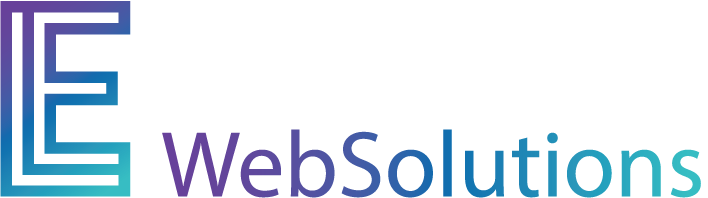
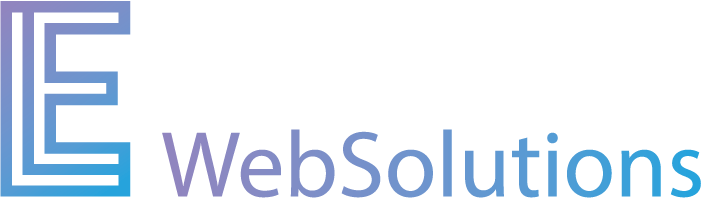
Updates
- Updated images with new colors
- Styled theme toggle
- Updated posts responsiveness
- Added sections to homepage

Changed region(s): [[0.2175, 0.6364, 0.9944, 1.0], [0.0, 0.0, 0.1864, 1.0], [0.7768, 0.6667, 0.8079, 0.7273]]

diff --git a/components/ThemeToggle.tsx b/components/ThemeToggle.tsx
@@ -19,34 +19,32 @@ export default function ThemeToggle() {
 
     return (
         <button
-            className="toggle-container"
+            className="toggle-container bg-gray-200 dark:bg-slate-500"
             style={{
                 ...container,
                 justifyContent: isDarkMode ? "flex-start" : "flex-end",
-                backgroundColor: isDarkMode ? "#333" : "#ddd",
             }}
             onClick={() => setTheme(isDarkMode ? "light" : "dark")}
         >
             <motion.div
-                className="toggle-handle"
+                className="toggle-handle bg-gray-100 dark:bg-slate-300"
                 style={{
-                    ...handle,
-                    backgroundColor: isDarkMode ? "#555" : "#888",
+                    ...handle
                 }}
                 layout
                 transition={{
                     type: "spring",
                     visualDuration: 0.2,
-                    bounce: 0.2,
+                    bounce: 0.4,
                 }}
             >
                 {isDarkMode ? (
-                    <svg xmlns="http://www.w3.org/2000/svg" id="Layer_1" data-name="Layer 1" viewBox="0 0 24 24" width="24" height="24">
-                        <path d="M15,24a12.021,12.021,0,0,1-8.914-3.966,11.9,11.9,0,0,1-3.02-9.309A12.122,12.122,0,0,1,13.085.152a13.061,13.061,0,0,1,5.031.205,2.5,2.5,0,0,1,1.108,4.226c-4.56,4.166-4.164,10.644.807,14.41a2.5,2.5,0,0,1-.7,4.32A13.894,13.894,0,0,1,15,24Z"/>
+                    <svg className="size-4/6 fill-gray-700" xmlns="http://www.w3.org/2000/svg" id="Layer_1" data-name="Layer 1" viewBox="0 0 23.99 24.01">
+                        <path d="M12.01,24.01c-3.4,0-6.64-1.44-8.91-3.97C.8,17.51-.3,14.12.07,10.73.69,5.37,4.77,1.06,10.09.16c1.67-.26,3.38-.19,5.03.2,1.34.34,2.14,1.71,1.8,3.04-.12.45-.36.86-.69,1.18-4.56,4.17-4.16,10.64.81,14.41,1.09.85,1.28,2.42.42,3.51-.29.37-.68.65-1.12.81-1.4.46-2.86.69-4.33.69Z"/>
                     </svg>
                 ) : (
-                    <svg xmlns="http://www.w3.org/2000/svg" id="Layer_1" data-name="Layer 1" viewBox="0 0 24 24" width="24" height="24">
-                        <path d="M12,7c-2.76,0-5,2.24-5,5s2.24,5,5,5,5-2.24,5-5-2.24-5-5-5Zm0,7c-1.1,0-2-.9-2-2s.9-2,2-2,2,.9,2,2-.9,2-2,2Zm4.95-6.95c-.59-.59-.59-1.54,0-2.12l1.41-1.41c.59-.59,1.54-.59,2.12,0,.59,.59,.59,1.54,0,2.12l-1.41,1.41c-.29,.29-.68,.44-1.06,.44s-.77-.15-1.06-.44ZM7.05,16.95c.59,.59,.59,1.54,0,2.12l-1.41,1.41c-.29,.29-.68,.44-1.06,.44s-.77-.15-1.06-.44c-.59-.59-.59-1.54,0-2.12l1.41-1.41c.59-.59,1.54-.59,2.12,0ZM3.51,5.64c-.59-.59-.59-1.54,0-2.12,.59-.59,1.54-.59,2.12,0l1.41,1.41c.59,.59,.59,1.54,0,2.12-.29,.29-.68,.44-1.06,.44s-.77-.15-1.06-.44l-1.41-1.41Zm16.97,12.73c.59,.59,.59,1.54,0,2.12-.29,.29-.68,.44-1.06,.44s-.77-.15-1.06-.44l-1.41-1.41c-.59-.59-.59-1.54,0-2.12,.59-.59,1.54-.59,2.12,0l1.41,1.41Zm3.51-6.36c0,.83-.67,1.5-1.5,1.5h-2c-.83,0-1.5-.67-1.5-1.5s.67-1.5,1.5-1.5h2c.83,0,1.5,.67,1.5,1.5ZM3.5,13.5H1.5c-.83,0-1.5-.67-1.5-1.5s.67-1.5,1.5-1.5H3.5c.83,0,1.5,.67,1.5,1.5s-.67,1.5-1.5,1.5ZM10.5,3.5V1.5c0-.83,.67-1.5,1.5-1.5s1.5,.67,1.5,1.5V3.5c0,.83-.67,1.5-1.5,1.5s-1.5-.67-1.5-1.5Zm3,17v2c0,.83-.67,1.5-1.5,1.5s-1.5-.67-1.5-1.5v-2c0-.83,.67-1.5,1.5-1.5s1.5,.67,1.5,1.5Z"/>
+                    <svg className="size-4/6 fill-gray-700" xmlns="http://www.w3.org/2000/svg" id="Layer_1" data-name="Layer 1" viewBox="0 0 23.99 24.01">
+                        <path d="M12.01,7.01c-2.76,0-5,2.24-5,5s2.24,5,5,5,5-2.24,5-5-2.24-5-5-5ZM12.01,14.01c-1.1,0-2-.9-2-2s.9-2,2-2,2,.9,2,2-.9,2-2,2ZM16.96,7.06c-.59-.59-.59-1.54,0-2.12l1.41-1.41c.59-.59,1.54-.59,2.12,0,.59.59.59,1.54,0,2.12l-1.41,1.41c-.29.29-.68.44-1.06.44s-.77-.15-1.06-.44ZM7.06,16.96c.59.59.59,1.54,0,2.12l-1.41,1.41c-.29.29-.68.44-1.06.44s-.77-.15-1.06-.44c-.59-.59-.59-1.54,0-2.12l1.41-1.41c.59-.59,1.54-.59,2.12,0ZM3.52,5.65c-.59-.59-.59-1.54,0-2.12.59-.59,1.54-.59,2.12,0l1.41,1.41c.59.59.59,1.54,0,2.12-.29.29-.68.44-1.06.44s-.77-.15-1.06-.44c0,0-1.41-1.41-1.41-1.41ZM20.48,18.38c.59.59.59,1.54,0,2.12-.29.29-.68.44-1.06.44s-.77-.15-1.06-.44l-1.41-1.41c-.59-.59-.59-1.54,0-2.12.59-.59,1.54-.59,2.12,0l1.41,1.41ZM23.99,12.02c0,.83-.67,1.5-1.5,1.5h-2c-.83,0-1.5-.67-1.5-1.5s.67-1.5,1.5-1.5h2c.83,0,1.5.67,1.5,1.5ZM3.51,13.51H1.51C.68,13.51,0,12.84,0,12.01s.67-1.5,1.5-1.5h2c.83,0,1.5.67,1.5,1.5s-.67,1.5-1.5,1.5ZM10.51,3.51V1.51C10.51.68,11.18,0,12.01,0s1.5.67,1.5,1.5v2c0,.83-.67,1.5-1.5,1.5s-1.5-.67-1.5-1.5ZM13.51,20.51v2c0,.83-.67,1.5-1.5,1.5s-1.5-.67-1.5-1.5v-2c0-.83.67-1.5,1.5-1.5s1.5.67,1.5,1.5Z"/>
                     </svg>
                 )}
 
@@ -59,8 +57,8 @@ export default function ThemeToggle() {
  * ==============   Styles   ================
  */
 const container = {
-    width: 50,
-    height: 30,
+    width: 52,
+    height: 34,
     borderRadius: 30,
     cursor: "pointer",
     display: "flex",
@@ -69,8 +67,8 @@ const container = {
 };
 
 const handle = {
-    width: 25,
-    height: 25,
+    width: 24,
+    height: 24,
     borderRadius: "50%",
     display: "flex",
     alignItems: "center",

diff --git a/app/page.tsx b/app/page.tsx
@@ -1,28 +1,50 @@
+import { div } from "motion/react-client";
 import Link from "next/link";
 
 export default function HomePage() {
     return (
-        <main>
-            <div className="container relative flex flex-col justify-center items-center py-8 min-h-screen">
-                <p className="sub-title mb-6 backdrop-blur-md">Available for Freelance projects</p>
-                <h1 className="bg-clip-text bg-gradient-primary mb-6">Crafting digital experiences</h1>
-                <p className="text-lg mb-8 text-gray-700 dark:text-gray-400">Full-stack developer specializing in creating beautiful, functional, and user-centered digital experiences</p>
-                <div className="flex justify-center gap-4">
-                    <Link href="/contact">
-                        <button className="py-3 px-8 rounded-lg noisy_button">Get in touch</button>
-                    </Link>
-                    <Link href="/project">
-                        <button className="py-3 px-8 backdrop-blur-md">View projects</button>
-                    </Link>
-                </div>
-                <div>
+        <div>
+            <main>
+                <div className="container relative flex flex-col justify-center items-center py-8 min-h-screen">
+                    <p className=" text-center sub-title mb-6 backdrop-blur-md">Available for Freelance projects</p>
+                    <h1 className="text-center mb-6">Crafting digital experiences</h1>
+                    <p className="text-center text-lg mb-8 text-gray-700 dark:text-gray-400">Full-stack developer specializing in creating beautiful, functional, and user-centered digital experiences</p>
+                    <div className="flex justify-center gap-4">
+                        <Link href="/contact">
+                            <button className="py-3 px-8 rounded-lg noisy_button">Get in touch</button>
+                        </Link>
+                        <Link href="/project">
+                            <button className="py-3 px-8 rounded-lg backdrop-blur-md bg-violet-100 bg-opacity-10">View projects</button>
+                        </Link>
+                    </div>
+                    <div>
 
+                    </div>
+                    <svg className="animate-bounce mt-8" xmlns="http://www.w3.org/2000/svg" width="24" height="24" viewBox="0 0 24 24" fill="none" stroke="currentColor" stroke-width="2" stroke-linecap="round" >
+                        <path d="M12 5v14"></path>
+                        <path d="m19 12-7 7-7-7"></path>
+                    </svg>
                 </div>
-                <svg className="animate-bounce mt-8" xmlns="http://www.w3.org/2000/svg" width="24" height="24" viewBox="0 0 24 24" fill="none" stroke="currentColor" stroke-width="2" stroke-linecap="round" >
-                    <path d="M12 5v14"></path>
-                    <path d="m19 12-7 7-7-7"></path>
-                </svg>
-            </div>
-        </main>
+            </main>
+            <section className="container py-8">
+                <p className=" text-center sub-title mb-6 backdrop-blur-md">Portfolio</p>
+                <h2 className="text-center mb-6">Featured projects</h2>
+            </section>
+            <section className="container py-8">
+                <p className=" text-center sub-title mb-6 backdrop-blur-md">Skills</p>
+                <h2 className="text-center mb-6">My expertises</h2>
+
+            </section>
+            <section className="container py-8">
+                <p className=" text-center sub-title mb-6 backdrop-blur-md">Blog</p>
+                <h2 className="text-center mb-6">Recent articles</h2>
+            </section>
+            <section className="py-8 contact">
+                <div className="container">
+                    <p className=" text-center sub-title mb-6 backdrop-blur-md">contact</p>
+                    <h2 className="text-center mb-6">Get in touch</h2>
+                </div>
+            </section>
+        </div>
     );
 }

diff --git a/components/BlogTagFilter.tsx b/components/BlogTagFilter.tsx
@@ -36,7 +36,7 @@ export default function TagFilter({ allBlogs, allTags }: { allBlogs: BlogPost[];
                         onClick={() => toggleTag(tag)}
                         className={`px-3 py-1 rounded transition-colors ${
                             selectedTags.includes(tag)
-                                ? "bg-indigo-400 text-white dark:bg-indigo-300 dark:text-neutral-900"
+                                ? "bg-violet-400 text-white dark:bg-violet-300 dark:text-neutral-900"
                                 : "bg-neutral-200 dark:bg-neutral-700 dark:text-white"
                         }`}
                         transition={{
@@ -53,7 +53,7 @@ export default function TagFilter({ allBlogs, allTags }: { allBlogs: BlogPost[];
             {/* Grid for blogs */}
             <motion.div
                 layout
-                className="mt-6 grid grid-cols-1 sm:grid-cols-2 gap-4 place-items-center"
+                className="mt-6 grid grid-cols-1 sm:grid-cols-2 md:grid-cols-3 gap-4 place-items-center"
             >
                 <AnimatePresence>
                     {filteredBlogs.length > 0 ? (
@@ -89,7 +89,7 @@ export default function TagFilter({ allBlogs, allTags }: { allBlogs: BlogPost[];
                                             onClick={() => toggleTag(tag)}
                                             className={`px-2 py-1 text-xs rounded transition-colors ${
                                                 selectedTags.includes(tag)
-                                                    ? "bg-indigo-400 text-white dark:bg-indigo-300 dark:text-neutral-900"
+                                                    ? "bg-violet-400 text-white dark:bg-violet-300 dark:text-neutral-900"
                                                     : "bg-neutral-200 dark:bg-neutral-700 dark:text-white"
                                             }`}
                                             transition={{

diff --git a/app/globals.css b/app/globals.css
@@ -23,6 +23,25 @@
     }
 }
 
+@layer base {
+    h1 {
+        @apply text-5xl leading-tight font-bold text-transparent bg-clip-text bg-gradient-primary;
+        -webkit-text-fill-color: transparent;
+    }
+    h2 {
+      @apply text-4xl;
+      @apply font-semibold;
+    }
+}
+@layer utilities {
+    .text-balance {
+        text-wrap: balance;
+    }
+    .container {
+        @apply max-w-[1260px] mx-auto;
+    }
+}
+
 body {
     color: rgb(var(--foreground-rgb));
     font-family: ui-sans-serif, system-ui, -apple-system, BlinkMacSystemFont, "Segoe UI", Roboto, "Helvetica Neue", Arial, "Noto Sans", sans-serif, "Apple Color Emoji", "Segoe UI Emoji", "Segoe UI Symbol", "Noto Color Emoji";
@@ -33,20 +52,13 @@ main{
     background: var(--light-background-gradient);
 }
 
-.container {
-    @apply max-w-[1260px] mx-auto;
-}
+
 
 .bg-gradient-primary {
     background: var(--primary-gradient);
 }
 
 /* Text */
-h1{
-    font-size: 3.75rem;
-    font-weight: 700;
-    color: transparent;
-}
 .sub-title{
     color: var(--primary-color);
     font-weight: 600;
@@ -55,12 +67,6 @@ h1{
 .bg-clip-text{
     -webkit-background-clip: text;
     background-clip: text;
-}
-
-@layer utilities {
-    .text-balance {
-        text-wrap: balance;
-    }
 }
 
 /* Homepage */

diff --git a/components/Navbar.tsx b/components/Navbar.tsx
@@ -19,11 +19,11 @@ export default function Navbar() {
     if (!mounted) return null; // Prevents hydration mismatch
 
     return (
-        <nav className="bg-white dark:bg-neutral-900 shadow-md p-4">
+        <nav className="bg-white dark:bg-neutral-900 shadow-md p-2">
             <div className="container mx-auto flex justify-between items-center">
                 {/* Logo or Brand */}
                 <Link href="/" className="text-xl font-bold text-black dark:text-white">
-                    <Image src={theme === "dark" ? "/images/EL-white-no-bg-name-no-padding.png" : "/images/EL-color-no-bg-name-no-padding.png"} width={160} height={50} alt="Logo EL Websolutions" />
+                    <Image src="/images/EL-color-no-bg-name-no-padding.png" width={180} height={70} alt="Logo EL Websolutions" />
                 </Link>
 
                 {/* Desktop Menu */}

diff --git a/components/ProjectTagFilter.tsx b/components/ProjectTagFilter.tsx
@@ -53,7 +53,7 @@ export default function TagFilter({ allProjects, allTags }: { allProjects: Proje
             {/* Grid for projects */}
             <motion.div
                 layout
-                className="mt-6 grid grid-cols-1 sm:grid-cols-2 gap-4 place-items-center"
+                className="mt-6 grid grid-cols-1 sm:grid-cols-2 md:grid-cols-3 gap-4 place-items-center"
             >
                 <AnimatePresence>
                     {filteredProjects.length > 0 ? (

diff --git a/app/blog/page.tsx b/app/blog/page.tsx
@@ -6,7 +6,7 @@ export default async function BlogsPage() {
     const allTags = Array.from(new Set(allBlogs.flatMap((blog) => blog.tags || [])));
 
     return (
-        <div className="container">
+        <div className="container py-8 min-h-screen">
             <h1 className="text-3xl font-bold text-black dark:text-white">Blogs</h1>
             <BlogTagFilter allBlogs={allBlogs} allTags={allTags} />
         </div>
